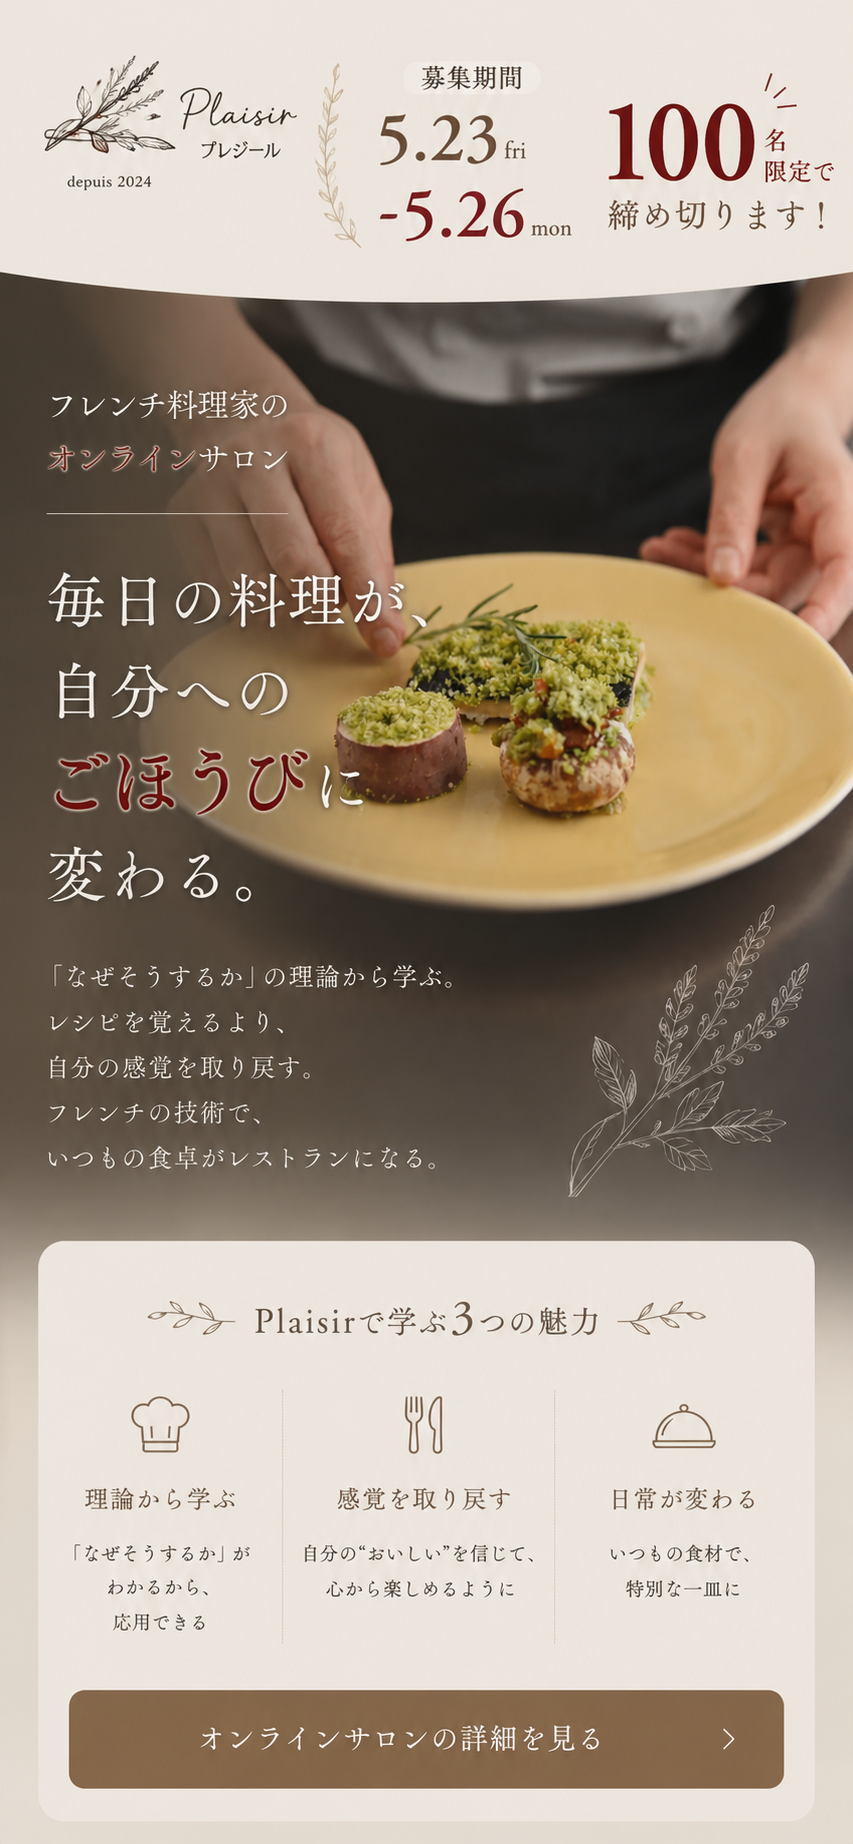
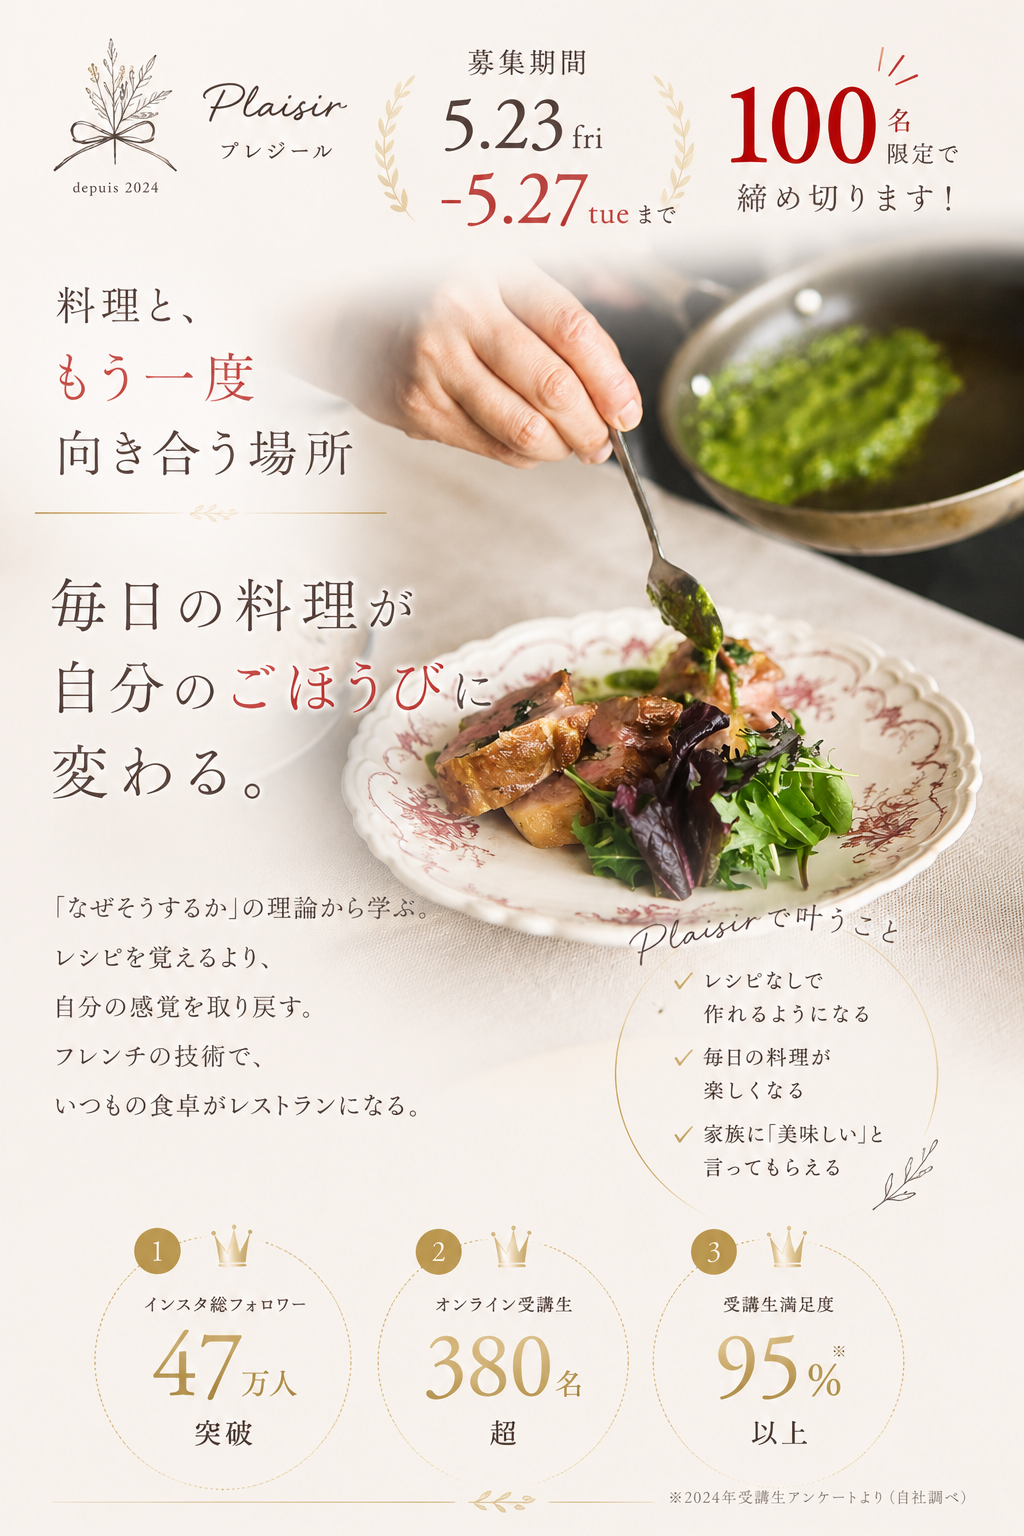
Update FV image (new launch design) and remove countdown bar

diff --git a/index.html b/index.html
@@ -124,46 +124,9 @@
       </a>
     </section>
 
-    <!-- ============ LAUNCH BAR ============ -->
-    <section class="launch-bar">
-      <div class="launch-bar-inner">
-        <div class="launch-bar-tag">期間限定・100名</div>
-        <div class="launch-bar-period">
-          募集期間：<strong>5/23(金)〜5/26(月) 23:59</strong>
-        </div>
-        <div class="launch-countdown">
-          <div class="cd-title">募集開始まで</div>
-          <div class="cd-timer">
-            <div class="cd-block"><span class="cd-num" id="cd-days">--</span><span class="cd-label">日</span></div>
-            <span class="cd-sep">:</span>
-            <div class="cd-block"><span class="cd-num" id="cd-hours">--</span><span class="cd-label">時間</span></div>
-            <span class="cd-sep">:</span>
-            <div class="cd-block"><span class="cd-num" id="cd-mins">--</span><span class="cd-label">分</span></div>
-            <span class="cd-sep">:</span>
-            <div class="cd-block"><span class="cd-num" id="cd-secs">--</span><span class="cd-label">秒</span></div>
-          </div>
-        </div>
-        <a href="https://mosh.jp/services/212043" target="_blank" rel="noopener" class="launch-bar-btn">Plaisirに参加する　→</a>
-      </div>
-    </section>
-
     <style>
       .launch-fv { background:#f7f3ea; }
       .launch-fv img { max-width:100%; }
-      .launch-bar { background:#2f3028; padding:32px 20px 36px; color:#fff; text-align:center; }
-      .launch-bar-inner { max-width:680px; margin:0 auto; }
-      .launch-bar-tag { display:inline-block; background:#8b2828; color:#fff; padding:6px 18px; border-radius:999px; font-size:12px; letter-spacing:0.08em; margin-bottom:14px; font-family:"Noto Serif JP",serif; }
-      .launch-bar-period { font-family:"Noto Serif JP",serif; font-size:14px; margin-bottom:24px; letter-spacing:0.04em; }
-      .launch-bar-period strong { color:#b9aa7a; font-size:16px; }
-      .launch-countdown { background:rgba(255,255,255,0.05); border:1px solid rgba(185,170,122,0.4); border-radius:6px; padding:18px 12px 14px; margin-bottom:24px; }
-      .cd-title { font-family:"Noto Serif JP",serif; font-size:12px; color:rgba(255,255,255,0.7); margin-bottom:10px; letter-spacing:0.08em; }
-      .cd-timer { display:flex; align-items:center; justify-content:center; gap:4px; }
-      .cd-block { flex:1; }
-      .cd-num { font-family:"Cormorant Garamond",serif; font-size:32px; color:#fff; display:block; line-height:1; margin-bottom:4px; font-weight:500; }
-      .cd-label { font-family:"Noto Serif JP",serif; font-size:10px; color:rgba(255,255,255,0.7); }
-      .cd-sep { font-family:"Cormorant Garamond",serif; font-size:22px; color:#b9aa7a; margin-top:-12px; }
-      .launch-bar-btn { display:inline-block; background:#8d8768; color:#fff; padding:16px 40px; border-radius:999px; font-family:"Noto Serif JP",serif; font-size:15px; letter-spacing:0.08em; text-decoration:none; box-shadow:0 8px 20px rgba(0,0,0,0.2); }
-      .launch-bar-btn:hover { background:#5f5a43; }
     </style>
     <!--
     <section class="lesson" id="lesson">